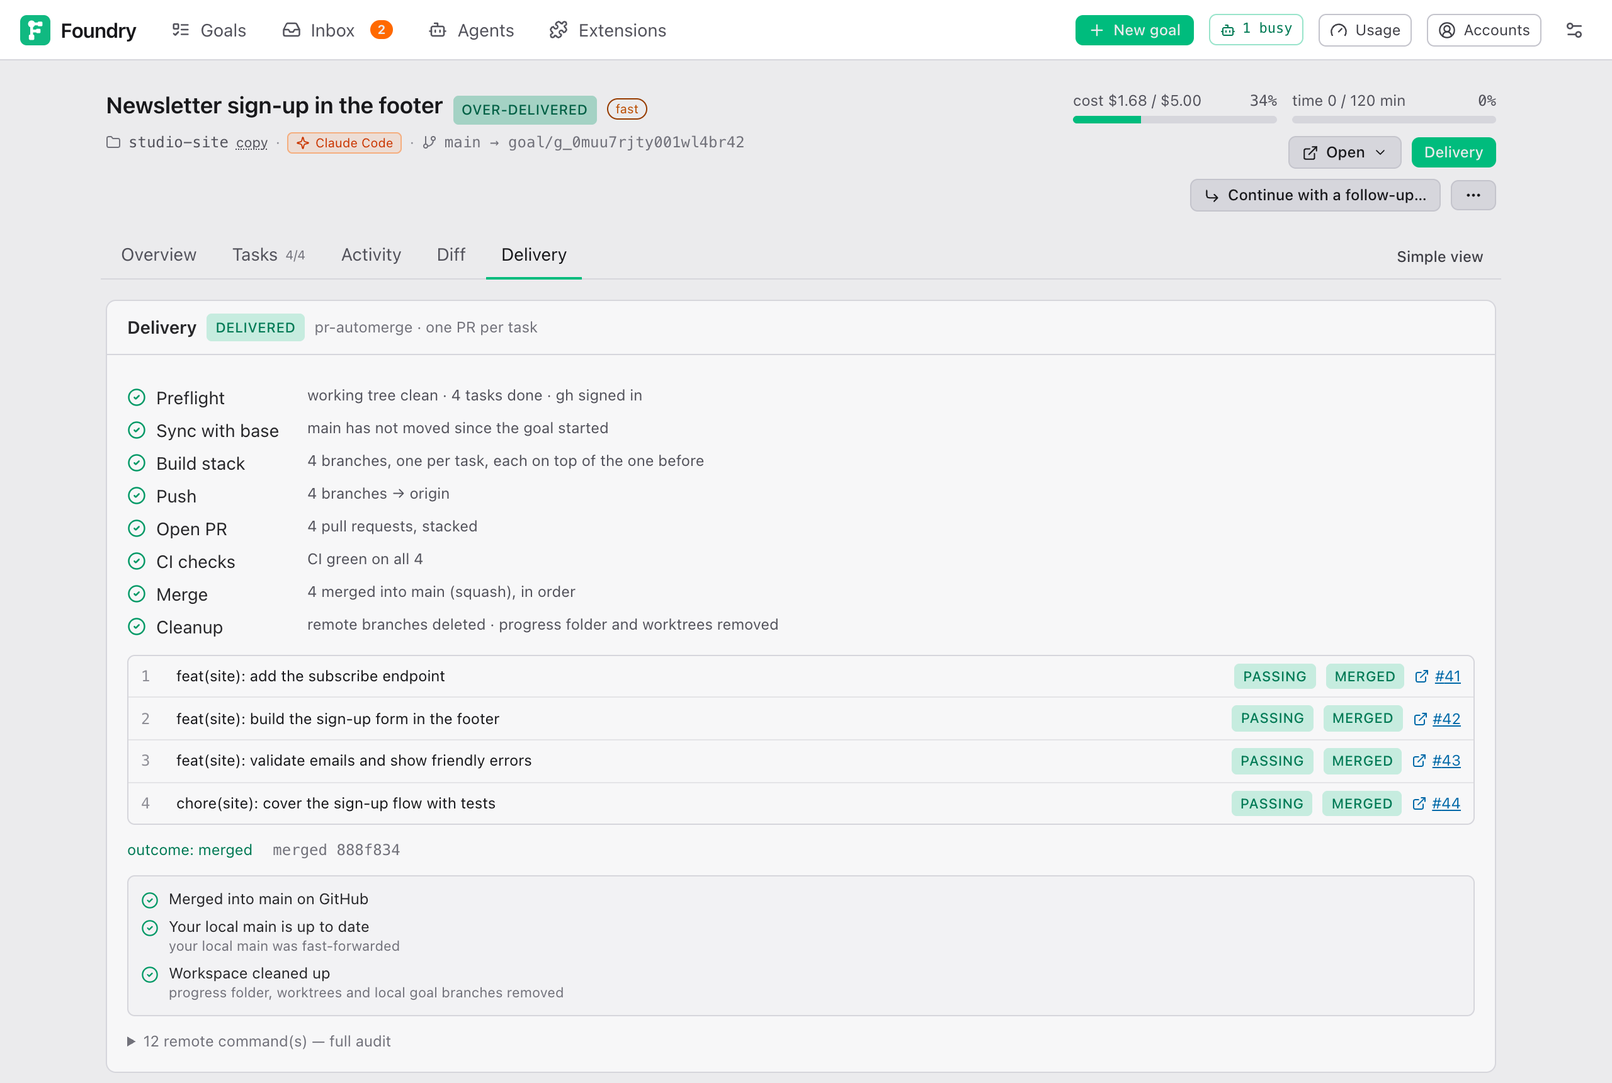
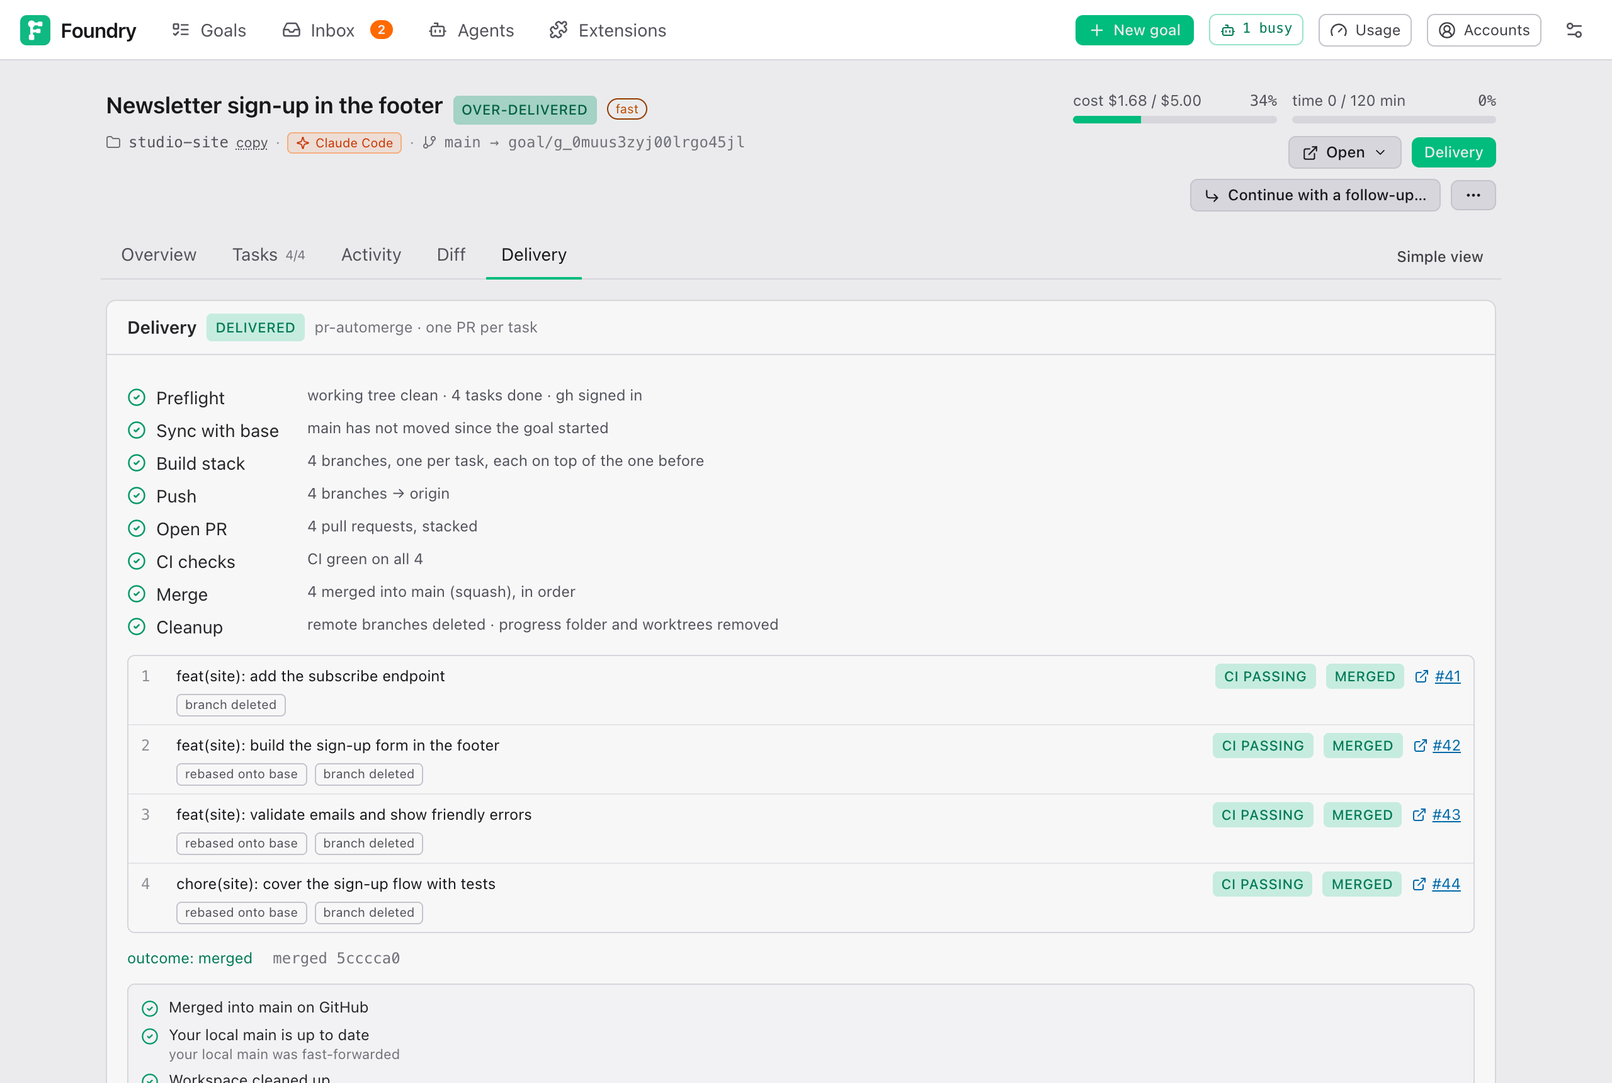
docs: describe resumable stacked delivery (ADR-0023) and the new Delivery tab controls
Guide (English and Chinese) explains Save, Resume delivery, Start over, the PR labels and the leased push of a replayed task branch; the architecture notes, CONTEXT and ADR-0003 point to the new ADR, and the delivery screenshot is refreshed.

diff --git a/docs/guide/getting-the-result.md b/docs/guide/getting-the-result.md
@@ -27,7 +27,7 @@ With **PR + auto-merge**, if branch protection on GitHub blocks the merge, Found
 Two rules hold for every mode:
 
 - It is Foundry itself that pushes, opens and merges, exactly as the plan on the Delivery tab lists. The AI working on your tasks cannot push; if it tries, Foundry blocks it and asks you (see [When Foundry needs you](./when-foundry-needs-you.md#it-wants-to-do-something-outside-your-computer)).
-- Foundry never force-pushes and never pushes to your base branch (for example `main`) directly. Changes reach `main` only through a merge.
+- Foundry never pushes to your base branch (for example `main`) directly. Changes reach `main` only through a merge. It never force-pushes the goal's branch. The one exception is a task's branch under **One PR per task**: after the pull request below it merges, that branch's own commits are replayed on top of `main` and the branch is replaced, but only if nobody else pushed to it since (`--force-with-lease`). If someone did, Foundry keeps their commits and merges `main` in instead.
 
 The pull request modes need the GitHub CLI and a connected account: see [Connecting GitHub](#connecting-github).
 
@@ -83,17 +83,35 @@ On the goal page, open the **Delivery** tab (in Simple view, **Deliver…** on t
 
 ![The Delivery tab after a delivery with one pull request per task: every step ticked, four stacked pull requests passing CI and merged, your main updated and the workspace cleaned up](images/goal-delivery.png)
 
-**Before the goal is done**, it says **Will deliver automatically when the goal is done** (unless the mode is Local only). You can change the delivery and press **Save policy (runs when done)**. That button is greyed out while **Local only** is selected.
+**Before the goal is done**, it says **Will deliver automatically when the goal is done** (unless the mode is Local only). You can change the delivery and press **Save (runs when the goal is done)**.
 
 **While it delivers**, the card shows each step with a tick, a spinner or a cross: **Preflight**, **Remote**, **Sync with base**, **Build stack**, **Push**, **Open PR**, **CI checks**, **Fix CI**, **Merge**, **Cleanup** (only the steps your mode needs). **Cancel** stops it.
 
-**The pull requests** appear in a list with their title, their CI result (**passing**, **failing**, **pending**), their state (**open**, **merged** …) and a link **#123** to open them on GitHub. The Overview tab's timeline also shows **Deliver · mode · N PRs · N merged**.
+**The pull requests** appear in a list with their title, their CI result (**CI passing**, **CI failing**, **CI pending**, **no CI**, or **CI skipped** when it merged without waiting for checks), their state (**open**, **merged** …) and a link **#123** to open them on GitHub. Under a pull request, small labels say what is happening to it:
+
+- the step running on it now, for example **CI checks** or **Merge**, with a spinner
+- **waiting for #41**: with one PR per task, a pull request merges only after the one below it
+- **rebased onto base**: after the pull request below merged, this one's own commits were replayed on top of `main`
+- **base merged in** or **conflict resolved**: `main` was merged into it, and in the second case a Merge Attempt resolved a conflict
+- **branch deleted**: its branch was removed from the online copy after the merge
+
+The Overview tab's timeline also shows **Deliver · mode · N PRs · N merged**.
 
 **After a merge**, three lines show whether the work is merged on GitHub, in your own folder, and whether the goal's folders were cleaned up. See [After a pull request merged](#after-a-pull-request-merged).
 
 **N remote command(s) — full audit** lists every command Foundry ran against the online copy, with its result.
 
-**Change delivery** (or **Deliver this goal** for a Local only goal) is where you pick a mode and see the exact plan: every command Foundry will run, in order. Nothing else runs. The button then says what it will do: **Push now**, **Open PR now**, **Open PRs now**, **Open PR and merge when green** or **Open PRs and merge when green**.
+**Delivery settings** (or **Deliver this goal** for a Local only goal) is where you pick a mode and see the exact plan: every command Foundry will run, in order. Nothing else runs. For a first delivery the button says what it will do: **Push now**, **Open PR now**, **Open PRs now**, **Open PR and merge when green** or **Open PRs and merge when green**.
+
+Once a delivery has started, the settings stay editable:
+
+- **Save** stores them and starts nothing. While a delivery runs, the switches under **Once the PR is open** apply from its next step. For example, turning **Wait for CI checks** off lets a pull request that is waiting on CI merge without it, marked **CI skipped**.
+- **Resume delivery** carries on from where the delivery stands. Open pull requests are kept, merged ones are skipped, and missing ones are added, such as the documentation written when the goal finished. Unsaved changes are saved first.
+- **Start over…** asks first. It closes the open pull requests with a comment, deletes the task branches here and online, and delivers again with the settings on screen. Pull requests that already merged stay merged.
+
+While pull requests are open, the remote, base branch, merge method and granularity are locked, and so are the modes without pull requests: changing them would leave the open pull requests behind. Switching between **Open a PR** and **PR + auto-merge** stays possible. While a delivery runs, only the switches can change.
+
+With **One PR per task**, the documentation Foundry writes when the goal finishes (see [Completion extras](#completion-extras)) is delivered as the last pull request.
 
 ## When CI fails
 
@@ -104,18 +122,21 @@ CI is the set of automatic checks your online repository runs on every pull requ
 
 When it stops, the Delivery tab lists each failing check under its pull request, with the check's own description (for example "Deployment was blocked") and a **details** link, and a *Delivery stopped* item appears in the Inbox with the same reason. Fix the cause, then:
 
-- **Retry delivery** runs it again from the first pull request that is not merged, with a fresh budget for fixing CI.
+- **Resume delivery** carries on from the first pull request that is not merged, keeping the open ones, with a fresh budget for fixing CI.
 - **Re-check** on a pull request reads it on GitHub again; if it passes now, the delivery carries on and merges.
 - **Mark as delivered** if you finished it yourself (merged pull requests are recognised; see [When Foundry needs you](./when-foundry-needs-you.md#the-delivery-stopped)).
 
-If you merge the pull request on GitHub yourself, Foundry notices and finishes the delivery; with one pull request per task, the rest wait for **Retry delivery**.
+If you merge the pull request on GitHub yourself, Foundry notices and finishes the delivery; with one pull request per task, the rest wait for **Resume delivery**.
+
+With one pull request per task, a fix for CI is committed on the branch of the pull request that failed and pushed there. The other pull requests are not touched.
 
 ## Changing delivery later
 
 You can change the mode at any time on the Delivery tab:
 
 - A **Local only** goal that is done: pick **Push branch** or **Open a PR** and press the button. Nothing else about the goal changes.
-- A goal that is still running: pick the new mode and press **Save policy (runs when done)**.
+- A goal that is still running: pick the new mode and press **Save (runs when the goal is done)**.
+- A goal whose delivery already started: see [Delivery settings](#the-delivery-tab) above (**Save**, **Resume delivery**, **Start over…**).
 
 ## Media goals and the output folder
 

diff --git a/docs/develop/architecture.md b/docs/develop/architecture.md
@@ -170,9 +170,9 @@ An **Attempt** (`runAttempt`, `attempt-loop.ts`) goes through Plan → Act → O
 
 ### 6. Completion and Delivery: `done` / `over_delivered`
 
-The tick copies media Artifacts (`deliverArtifacts`), runs the Graph Refresh (`runGraphRefresh`, `completion.ts`), and, unless the policy is `local`, runs `runDelivery` (`delivery/pipeline.ts`). Its steps are the `DeliveryStep` enum in `core/src/schema/delivery.ts`: `preflight → ensure-remote → sync-base → build-stack → push → open-pr → wait-checks → fix-ci → merge → cleanup`. `sync-base` merges the moved base into the goal branch, resolving conflicts through Merge Attempts. `build-stack` builds the PR Stack for `task`-unit delivery. `fix-ci` runs worker attempts on `delivery-fix` tasks. Every remote action goes through the `GhClient` interface (`delivery/gh.ts`; `FakeGh` in tests) and is recorded as an event. Only the engine pushes, and never with force ([ADR-0003](adr/0003-engine-only-remote-actions-under-human-policy.md)).
+The tick copies media Artifacts (`deliverArtifacts`), runs the Graph Refresh (`runGraphRefresh`, `completion.ts`), and, unless the policy is `local`, runs `runDelivery` (`delivery/pipeline.ts`). Its steps are the `DeliveryStep` enum in `core/src/schema/delivery.ts`: `preflight → ensure-remote → sync-base → build-stack → push → open-pr → wait-checks → fix-ci → merge → cleanup`. `sync-base` merges the moved base into the goal branch, resolving conflicts through Merge Attempts. `build-stack` builds the PR Stack for `task`-unit delivery from `stackEntries` (`delivery/stack-entries.ts`: task commits in order, then the docs commit). It reuses existing stacked branches and builds only the missing ones. For a stacked branch, `sync-base` replays its own commits onto the moved base (`git rebase --onto`, from the newest recorded tip of the branch below), falling back to a merge with Merge Attempts on conflict. `fix-ci` runs worker attempts on `delivery-fix` tasks, committing on the PR's own branch. Every remote action goes through the `GhClient` interface (`delivery/gh.ts`; `FakeGh` in tests, with a squash-merge mode) and is recorded as an event. Only the engine pushes. The goal branch is never force-pushed; a replayed stacked branch is pushed with `--force-with-lease` on the sha last seen ([ADR-0003](adr/0003-engine-only-remote-actions-under-human-policy.md), [ADR-0023](adr/0023-resumable-stacked-delivery.md)). A running delivery reads the policy's switches at each step (`live()`), so a policy saved mid-run (`delivery.policy_saved`) applies from the next step.
 
-**When a delivery stops** (`delivery/inbox.ts`): every `delivery.failed` raises one `delivery_failed` Escalation with the reason; a new run (`delivery.started`) or a finished delivery closes it. Failing checks are recorded per PR with their description and link (`failingChecks` in `delivery/gh.ts`, `delivery.checks.failing`). `settlePr` hands a failure to a fix-CI task only when `failedLog` returns a CI log; a fix that commits nothing stops the delivery instead of re-pushing the same SHA. `Engine.retryDelivery` (policy_set with source `retry`, which resets `fixCycles`), `Engine.recheckDeliveryPr` and `Engine.markDelivered` (`delivery/pr-watch.ts`) back the Retry delivery, Re-check and Mark as delivered buttons (`POST /api/goals/:id/delivery/retry`, `…/prs/:n/recheck`, `…/mark-delivered`). The PR watch also covers failed deliveries with an open PR, so a PR merged by hand finishes the delivery.
+**When a delivery stops** (`delivery/inbox.ts`): every `delivery.failed` raises one `delivery_failed` Escalation with the reason; a new run (`delivery.started`) or a finished delivery closes it. Failing checks are recorded per PR with their description and link (`failingChecks` in `delivery/gh.ts`, `delivery.checks.failing`). `settlePr` hands a failure to a fix-CI task only when `failedLog` returns a CI log; a fix that commits nothing stops the delivery instead of re-pushing the same SHA. `Engine.saveDeliveryPolicy` (`PUT /api/goals/:id/delivery/policy`; mode, unit, merge method, base and remote are refused while a run goes or PRs are open), `Engine.resumeDelivery` (policy_set with source `resume`, which resets `fixCycles`), `Engine.startOverDelivery` (`delivery/start-over.ts`: closes open PRs, deletes the stacked branches, policy_set with source `start-over`), `Engine.recheckDeliveryPr` and `Engine.markDelivered` (`delivery/pr-watch.ts`) back the Save, Resume delivery, Start over, Re-check and Mark as delivered buttons (`POST …/delivery/resume`, `…/start-over`, `…/prs/:n/recheck`, `…/mark-delivered`). `Engine.retryDelivery` (`…/delivery/retry`) remains for Re-check and the API. The PR watch also covers failed deliveries with an open PR, so a PR merged by hand finishes the delivery.
 
 **Commit identity** (`git/git.ts`): every engine commit, merge and cherry-pick uses `gitIdent(cwd)`, resolved per repository from Settings → Git & delivery → Commit author (`setCommitAuthorMode`): the repository's or global `user.name`/`user.email`, else the gh account's noreply address, else `foundry <foundry@local>`; `withCoauthor` adds `Co-authored-by: Foundry <foundry@local>` in the default mode. Stacked PR commits rebuilt at delivery are re-authored the same way.
 

diff --git a/docs/develop/adr/0023-resumable-stacked-delivery.md b/docs/develop/adr/0023-resumable-stacked-delivery.md
@@ -1,0 +1,52 @@
+# ADR-0023: A stacked delivery resumes, replays onto the base, and reads its switches live
+
+**Status:** accepted · 2026-10-05 · amends [ADR-0003](0003-engine-only-remote-actions-under-human-policy.md) (no force push)
+
+## Context
+
+A stacked delivery (one PR per task) failed in ways that made it hard to finish:
+
+- A fix-CI commit was recorded like a task commit, so the next run computed a different stack and deleted the "stale"
+  branches. Deleting a PR's branch makes GitHub close the PR, so every re-run closed all open PRs and opened new ones.
+- After the bottom PR is squash-merged, `main` holds its changes as one new commit while the next branch still holds the
+  original commits. Merging `main` into that branch then conflicts on the same lines, and a model-driven Merge Attempt
+  (with local goal checks) ran for every PR. That made deliveries slow.
+- The policy could only be changed by starting a new run, so turning off "Wait for CI checks" for a PR stuck on CI was
+  impossible while the run waited.
+- The docs commit written when the goal finished was on the goal branch but in no stacked PR. The after-merge check
+  compared the goal branch's content with `main`, so it reported "not up to date" for a fully merged goal.
+
+## Decision
+
+- **Branches are reused, never deleted to rebuild.** `build-stack` keeps every stacked branch that exists and builds
+  only the missing entries, each on top of the entry below as it is now. If something cannot be built while open PRs
+  exist, the delivery stops instead of falling back to one PR.
+- **Fix-CI commits on the PR's own branch.** A `delivery-fix` task is not a stack entry; its commit travels with its PR.
+- **Replay after a squash merge.** To bring the base into stacked branch *n*, Foundry finds where the branch left
+  branch *n−1*: the newest recorded tip of *n−1* (as built, pushed, or before a replay) that branch *n* still contains.
+  It runs `git rebase --onto origin/<base> <that point>`. Only branch *n*'s own commits are replayed, and no model is
+  involved. If the replay conflicts, it is aborted and the base is merged in instead, with Merge Attempts for the
+  conflicts. The goal's checks run locally on such a resolution only when the repository has no CI.
+- **Force with lease, for stacked branches only.** A replayed branch replaces its remote copy with
+  `git push --force-with-lease=refs/heads/<branch>:<sha last seen>`. The goal branch and the base branch are never
+  force-pushed. If the lease is refused (someone pushed to the branch), the replay is dropped: the branch is reset to
+  the remote copy, the base is merged in, and it is pushed normally. A note records why.
+- **Switches are live.** `delivery.policy_saved` stores a policy without starting a run. A running delivery reads
+  *Wait for CI checks*, *Merge when no checks*, *Auto-resolve conflicts*, *Delete the remote branch* and the fix-CI
+  budget at each step. Mode, unit, merge method, base and remote are refused while a run goes or PRs are open
+  (switching between the two PR modes is allowed when idle). Changing them needs **Start over**, which closes the open
+  PRs with a comment and deletes the stacked branches; merged work stays merged.
+- **Resume** (`delivery.policy_set` source `resume`) is the default way to continue a stopped or partial delivery.
+- **The docs commit is the last stack entry** when there are two or more task commits. `goal.docs_generated` records
+  its ref; older events name it in their detail.
+- **"Your local base has the work"** is decided by the last merged PR's merge commit being an ancestor of the local
+  base, provided no stack entry is still undelivered. Otherwise the content comparison decides as before.
+- The read model records per PR what the UI labels: the current step (`activity`), `ciSkipped`, `branchDeleted` and
+  how it was synced (`current`, `rebased`, `merged`, `resolved`).
+
+## Consequences
+
+- An open stacked PR's history is rewritten once after the PR below merges. Reviewers who fetched it see a
+  force-update; review comments stay attached to the PR.
+- A PR someone pushed to is never overwritten, but then gets a merge commit rather than a clean replay.
+- The guide's rule "Foundry never force-pushes" now reads "never force-pushes the goal branch or the base".

diff --git a/CONTEXT.md b/CONTEXT.md
@@ -125,7 +125,7 @@ The single commit a finished Task becomes on the Goal branch. Whatever a Task's 
 A *task*-unit Delivery: the Task Commits are re-applied one by one on top of the remote base branch, each step becoming a branch and a pull request based on the one below it, titled with the Task Commit's header. The stack is merged bottom-up; a Task Commit that cannot be re-applied makes the engine fall back to one pull request for the whole Goal and say so.
 
 **Delivery**
-The engine carrying out a Delivery Policy after a Goal is finished: syncing the Goal branch with the base branch (conflicts are resolved by a Merge Attempt), pushing, opening the pull request, waiting for its checks, fixing them a bounded number of times, merging, and tidying the remote branch. Every remote action is recorded with the exact command. A Delivery can be *delivered*, *failed* (and re-run), or cancelled; it never force-pushes and never pushes to the base branch. Once its pull request has merged — during the Delivery or noticed later — the merged work is brought to the user's own base branch by a fast-forward when that is safe, and the Goal's Progress folder and local branches are then removed, unless anything in them is not in the base branch yet. A Delivery that stops raises one Escalation naming the failing checks; it can be retried from the first unmerged pull request, or marked delivered when the human finished it — a pull request they merged by hand is noticed either way.
+The engine carrying out a Delivery Policy after a Goal is finished: syncing the Goal branch with the base branch (conflicts are resolved by a Merge Attempt), pushing, opening the pull request, waiting for its checks, fixing them a bounded number of times, merging, and tidying the remote branch. Every remote action is recorded with the exact command. A Delivery can be *delivered*, *failed* (and resumed), or cancelled; it never pushes to the base branch and never force-pushes the Goal branch (a stacked task branch is replaced only with a lease, after the pull request below it merged). Once its pull request has merged — during the Delivery or noticed later — the merged work is brought to the user's own base branch by a fast-forward when that is safe, and the Goal's Progress folder and local branches are then removed, unless anything in them is not in the base branch yet. A Delivery that stops raises one Escalation naming the failing checks; it can be resumed from the first unmerged pull request (open ones kept), started over (open ones closed), or marked delivered when the human finished it — a pull request they merged by hand is noticed either way.
 
 ## Workspace
 

diff --git a/docs/guide/when-foundry-needs-you.md b/docs/guide/when-foundry-needs-you.md
@@ -72,7 +72,7 @@ The goal reached the cost or time limit you set. **Raise budget** (empty fields 
 
 The work is done, but pushing it or getting the pull request merged did not go through. Fix the cause (the link shows it), then:
 
-- **Retry delivery** runs the delivery again from the first pull request that is not merged: merged ones are skipped, open ones reused, and fixing CI gets a fresh budget.
+- **Resume delivery** carries on from the first pull request that is not merged: merged ones are skipped, open ones kept, and fixing CI gets a fresh budget. To change a setting first, for example to stop waiting for CI, change it under **Delivery settings** and press **Save**.
 - **Mark as delivered** if you finished it yourself. Foundry reads the pull requests first: if they are merged it finishes as merged (your own folder is updated and the goal tidied up); otherwise it only records it as delivered by you.
 
 If you merge the pull request on GitHub yourself, Foundry notices within a few minutes (or when you open the goal) and closes this item. A check that is not a CI run Foundry can read — a deploy integration's status, for example — is never "fixed" by a fix task; Foundry stops and tells you which check it is. A common cause: a deploy integration that only accepts commits from members of its team. See **Commit author** in [Settings → Git & delivery](./settings.md#git--delivery).

diff --git a/docs/develop/adr/README.md b/docs/develop/adr/README.md
@@ -27,3 +27,4 @@ record is never rewritten when a later decision changes it; its status says what
 | [0020](0020-native-plugin-lifecycle-and-account-ownership.md) | Native plugin lifecycle and server-owned account commands | accepted · 2026-10-04 |
 | [0021](0021-multi-app-previews-and-compose-services.md) | Several apps per preview, and the compose services they need | accepted · 2026-10-05 · amends ADR-0012 |
 | [0022](0022-preview-environment-outside-the-workspace.md) | Preview environment stays outside the goal's folder | accepted · 2026-10-05 |
+| [0023](0023-resumable-stacked-delivery.md) | A stacked delivery resumes, replays onto the base, and reads its switches live | accepted · 2026-10-05 |

diff --git a/docs/develop/adr/0003-engine-only-remote-actions-under-human-policy.md b/docs/develop/adr/0003-engine-only-remote-actions-under-human-policy.md
@@ -1,6 +1,6 @@
 # ADR-0003: Remote actions are performed only by the engine, only under a policy the human chose
 
-**Status:** accepted · 2026-08-21 · amended by ADR-0012 (a sixth escalation trigger, `milestone`)
+**Status:** accepted · 2026-08-21 · amended by ADR-0012 (a sixth escalation trigger, `milestone`) and ADR-0023 (a replayed stacked branch is pushed with `--force-with-lease`)
 
 ## Context
 
